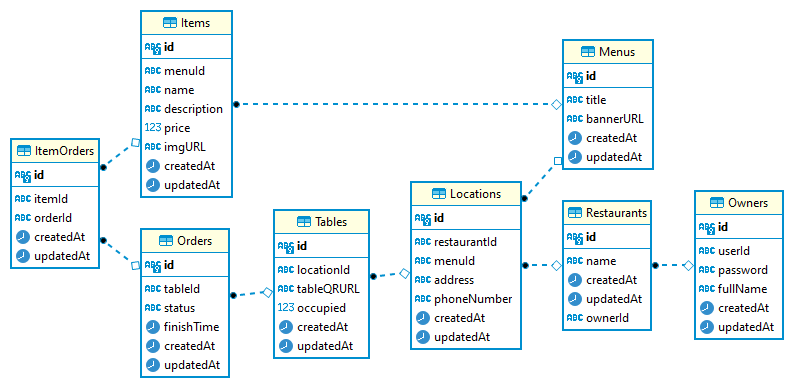
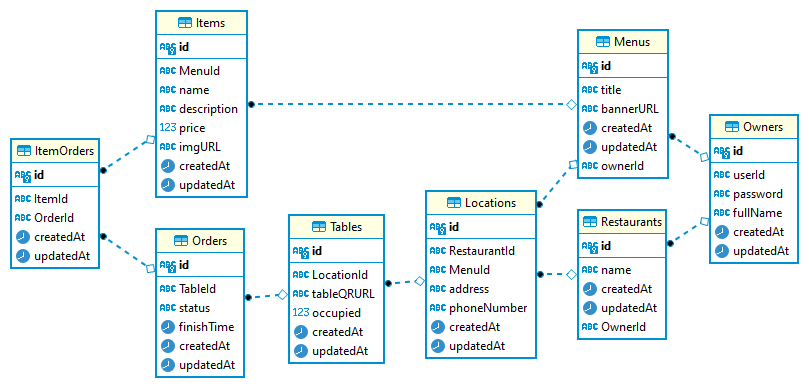
changed menu to have ownerId

Changed region(s): [[0.0, 0.0309, 0.9975, 0.9897], [0.0, 0.433, 0.0605, 0.4639]]

diff --git a/server/migrations/20210725035146-create-menu.js b/server/migrations/20210725035146-create-menu.js
@@ -20,6 +20,16 @@ module.exports = {
             updatedAt: {
                 allowNull: false,
                 type: Sequelize.DATE
+            },
+            ownerId: {
+                type: Sequelize.STRING,
+                allowNull: false,
+                references: {
+                    model: 'Owners',
+                    key: 'id'
+                },
+                onUpdate: 'CASCADE',
+                onDelete: 'CASCADE'
             }
         });
     },
